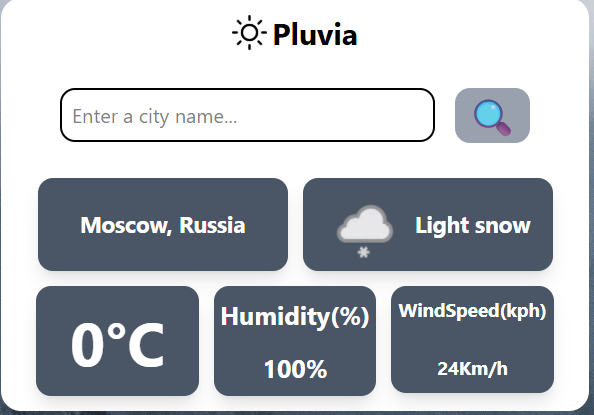
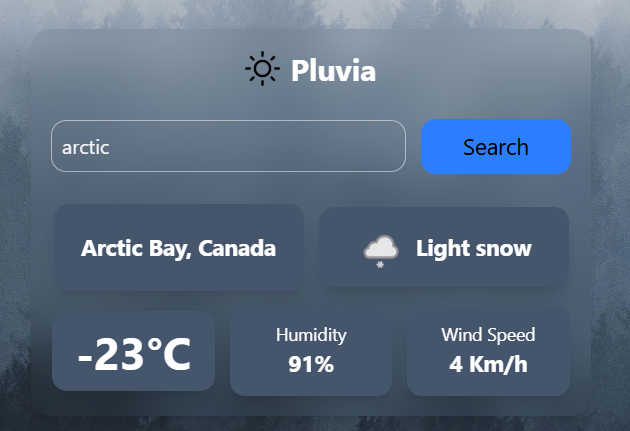
Screenshots added

diff --git a/README.md b/README.md
@@ -50,8 +50,10 @@ A simple weather application that fetches real-time weather data using an API an
 
 ![LogoImage](assets/full%20Logo.png)
 ![NormLook](assets/Normal%20look.png)
+![Error Handling](assets/Err1.png)
+![Error Handling 2](assets/err2.png)
 ![addedValue](assets/Added%20Value%20look.png)
-![fullPage](assets/Full%20page%20Look.png)
+![fullPage](assets/Full%20page.png)
 
 
 # Author
